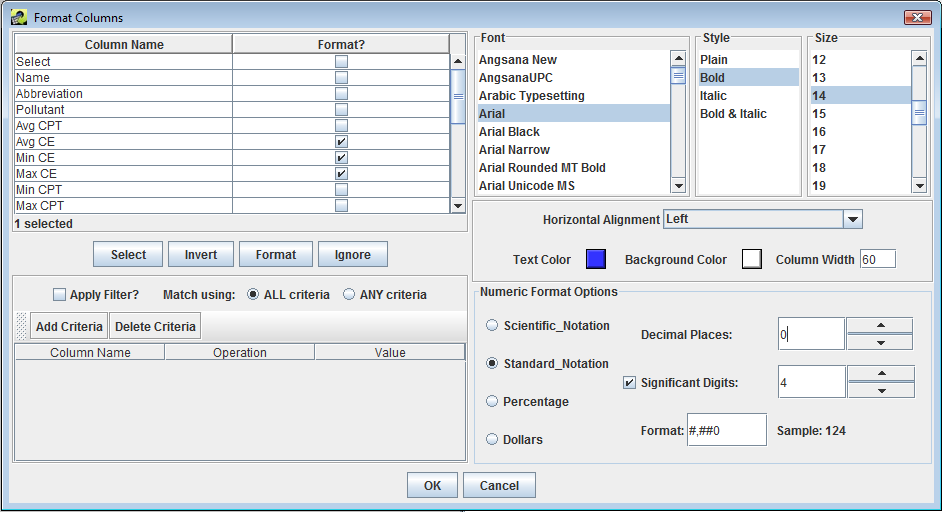
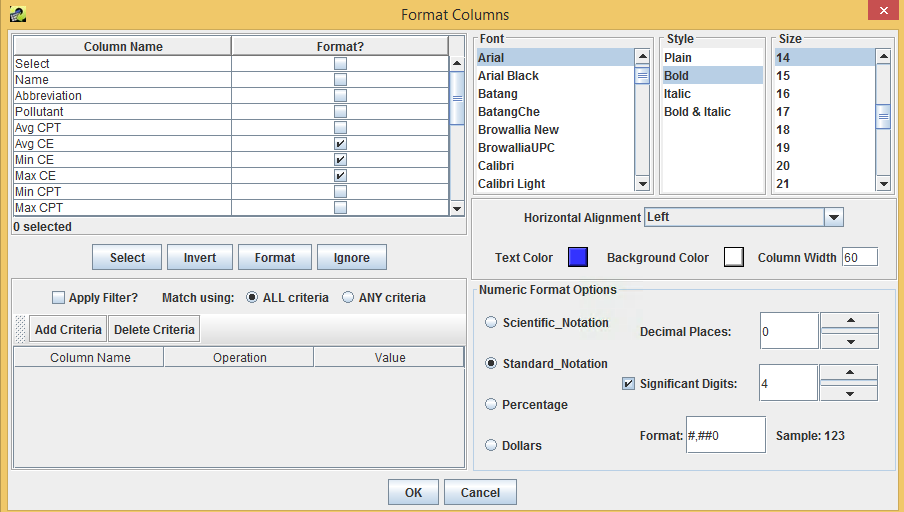
update images and add refresh button image

Changed region(s): [[0.0, 0.0, 1.0, 1.0], [0.6814, 0.8125, 0.9292, 0.9062]]

diff --git a/EMF/deploy/doc/guides/cost/ch3_control_measure_manager.md b/EMF/deploy/doc/guides/cost/ch3_control_measure_manager.md
@@ -164,7 +164,7 @@ Next, change the **Font to Arial, the Style to Bold, the Size to 14, the Horizon
 
 21\. If you are unsure of what a button does when using CoST, place your cursor over the button and wait; in many cases, a small piece of text called a **"tooltip"** will appear. For example, **place your cursor over one of the buttons on the toolbar and hold it still**. You will see a tooltip describing what the button does. Many of the buttons and fields used in CoST have tooltips to clarify what they do or what type of data should be entered.
 
-22\. If you wish to retrieve an updated set of control measures data from the server, click the **Refresh** button at the upper right portion of the Control Measure Manager. Note that this will also reset any special formatting that you have specified, but any sort and filter settings will be preserved.
+22\. If you wish to retrieve an updated set of control measures data from the server, click the **Refresh** button: <img src="images/Refresh_button.png"/> at the upper right portion of the Control Measure Manager. Note that this will also reset any special formatting that you have specified, but any sort and filter settings will be preserved.
 
 ## Viewing Data for an Existing Control Measure [viewing_data_for_an_existing_control_measure_section] ##
 
